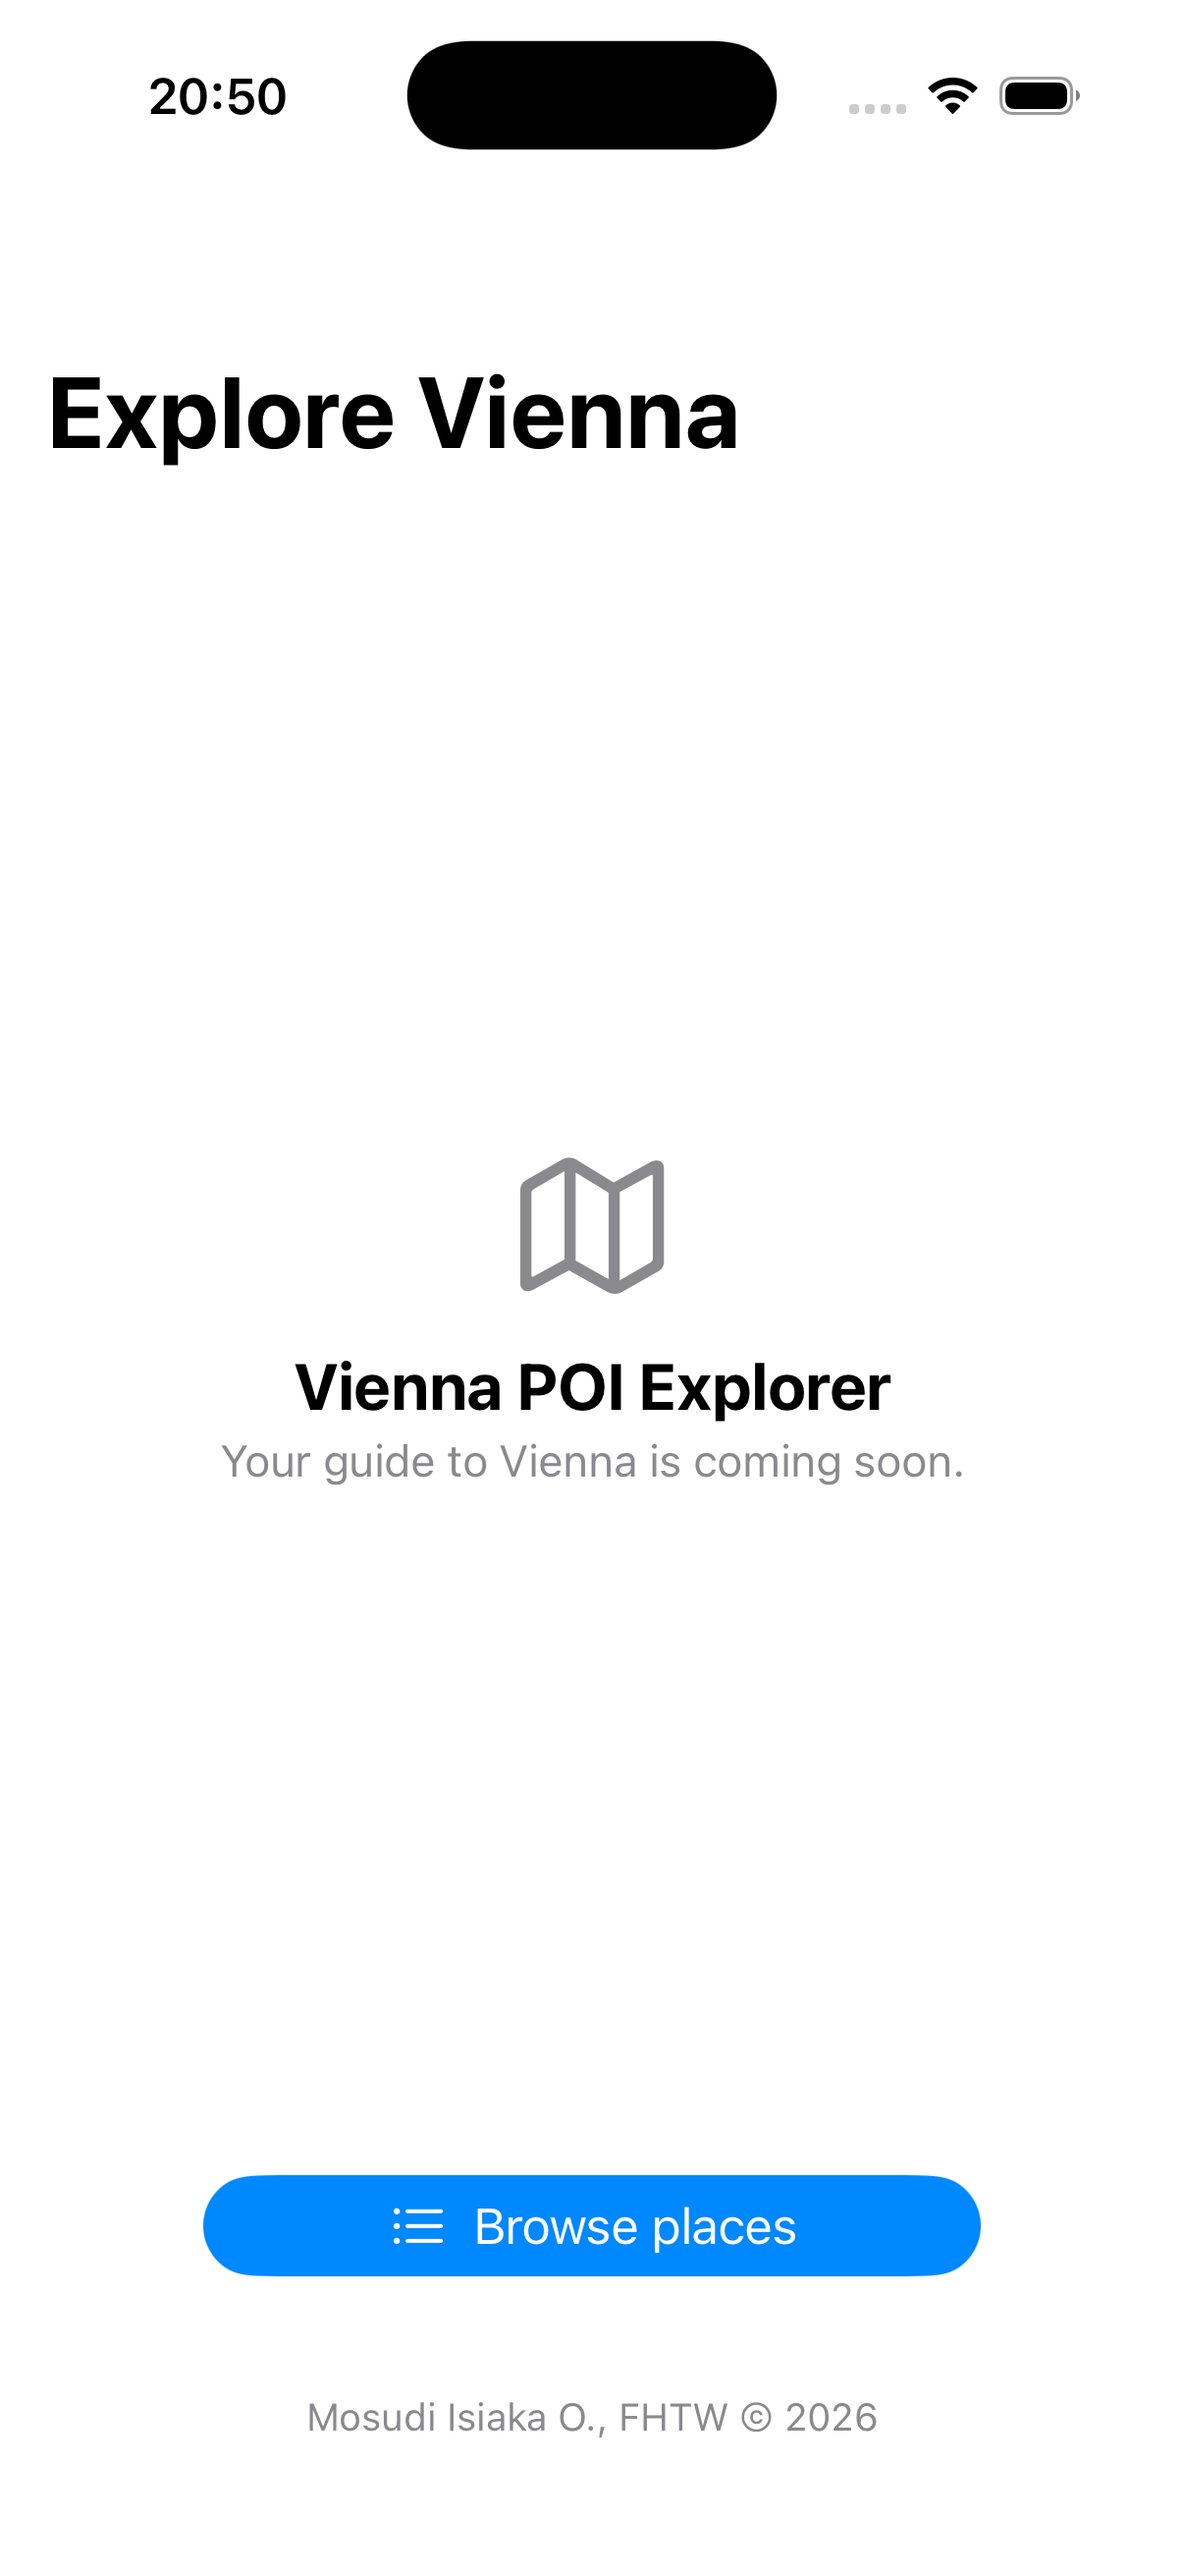
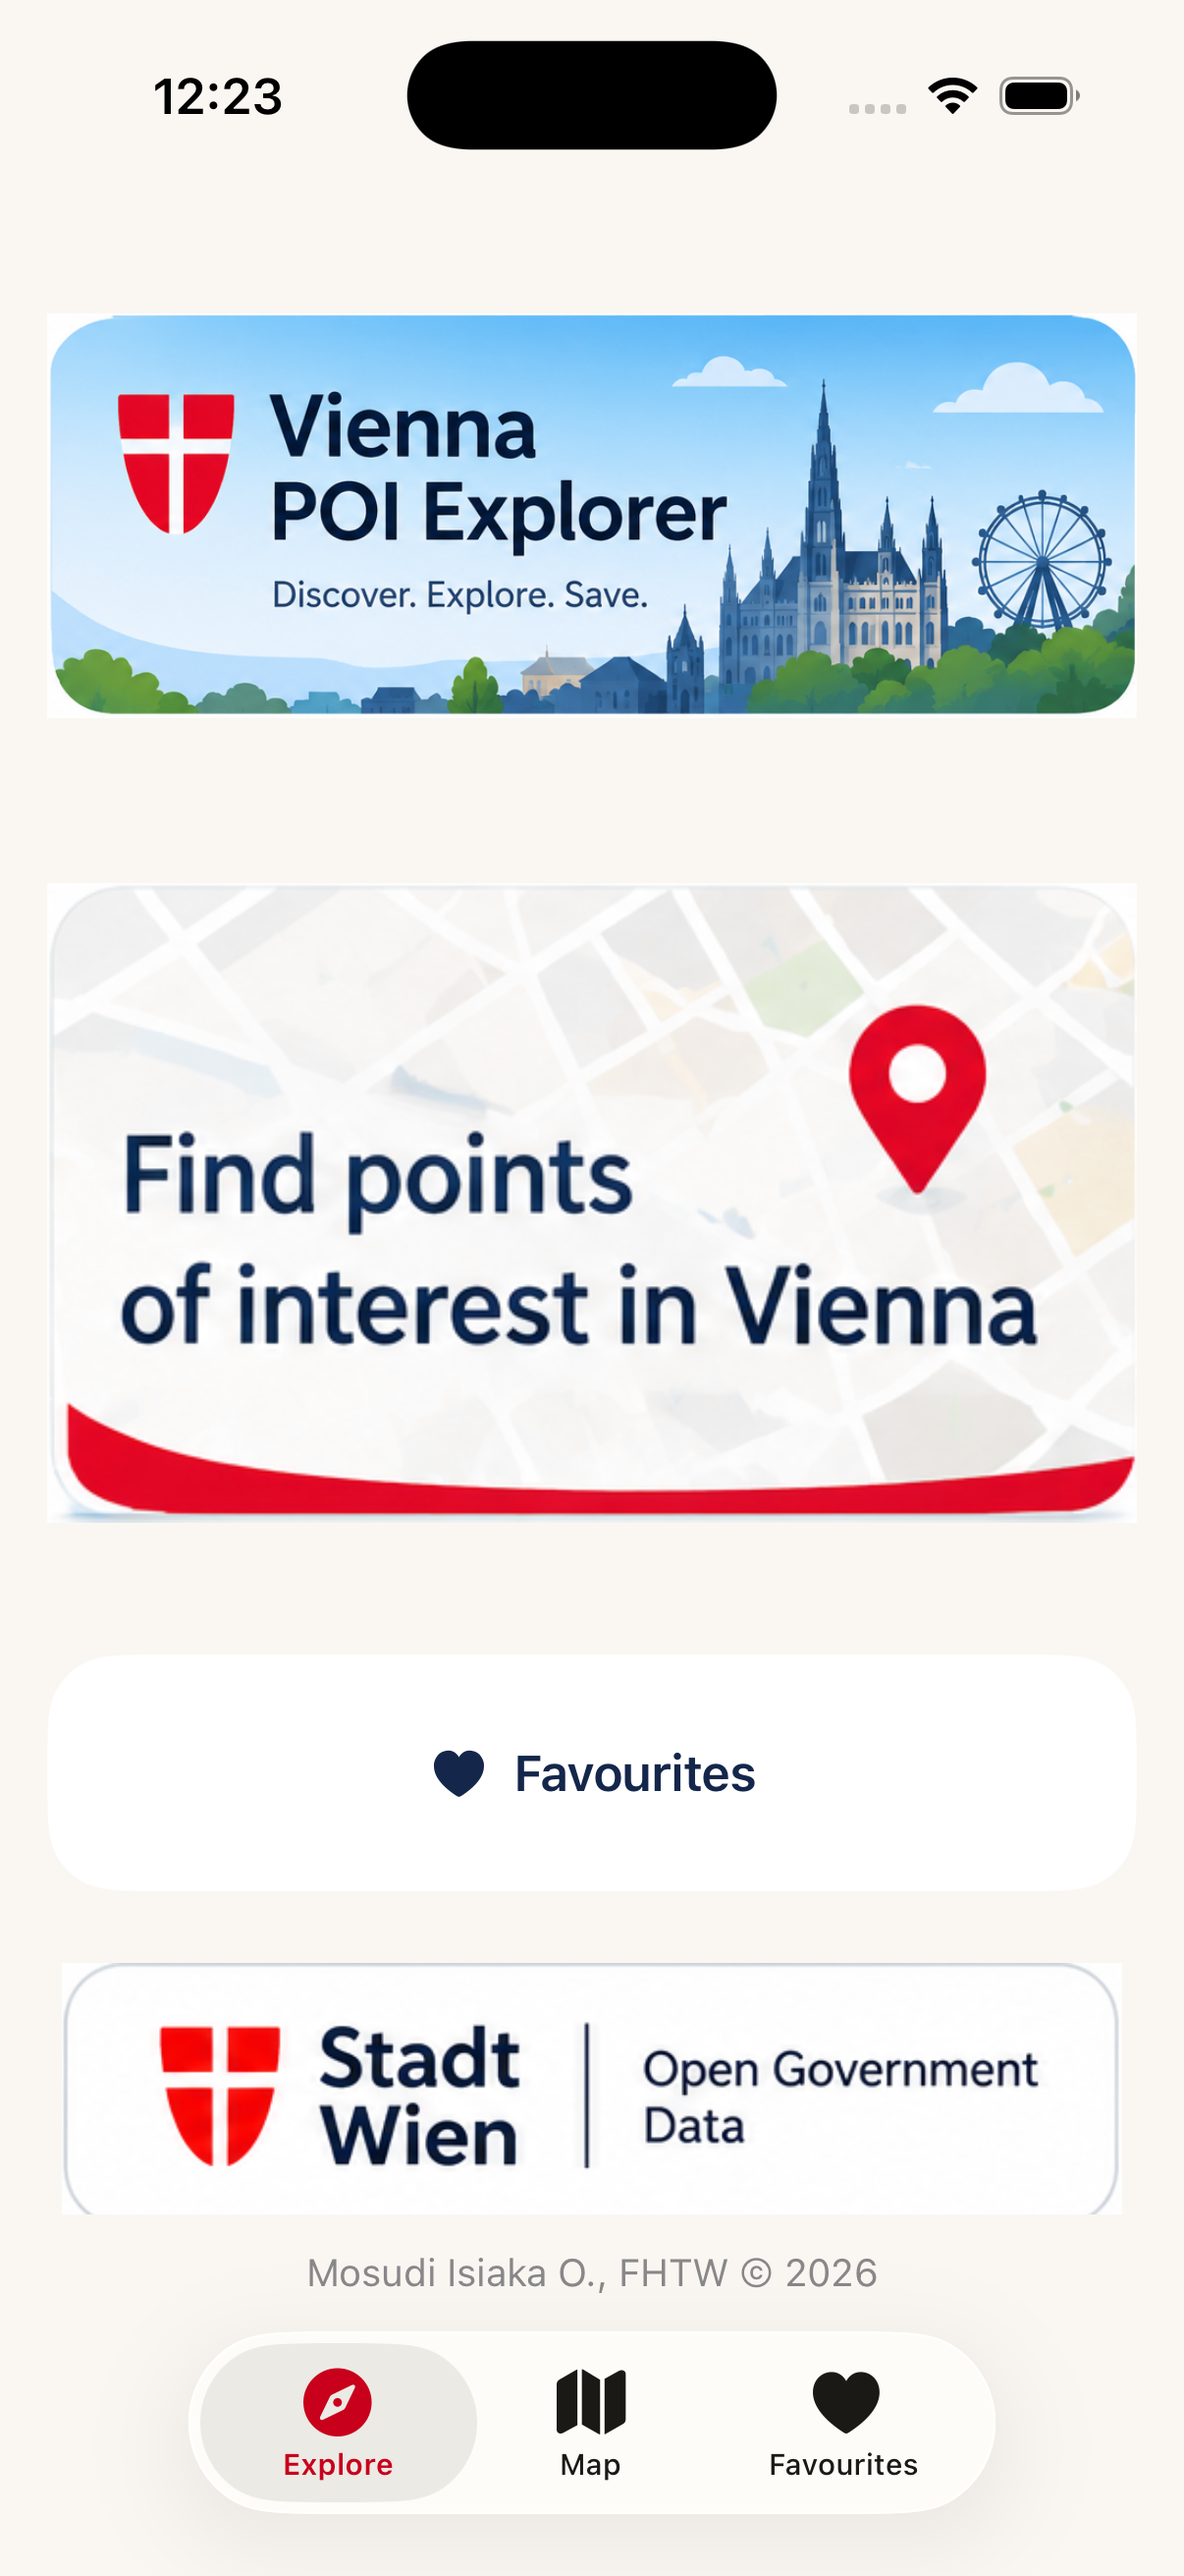
Screenshots

diff --git a/README.md b/README.md
@@ -31,19 +31,43 @@ Features without a stable identifier, a non-empty name, a `Point` geometry, or f
 
 ## Screenshots
 
-### Home screen
+Screenshots are iOS captures. The list, map, and saved-favourite content may
+vary with the dataset and favourites present when the capture was made.
 
-![Home screen in landscape](screenshots/debug-screenshot.png)
+### Explore home
 
-![Home screen in portrait](screenshots/debug-screenshot-landscape.png)
+| Portrait | Landscape |
+|---|---|
+| ![Explore home in portrait](screenshots/debug-screenshot.png) | ![Explore home in landscape](screenshots/debug-screenshot_landscape.png) |
 
-### POI map
+### Places catalogue
 
-![Searchable list of POIs](screenshots/debug-screenshot-landscape_poi.png)
+| Places list | Landscape list and map |
+|---|---|
+| ![Places catalogue in portrait](screenshots/debug-screenshot_places.png) | ![Places catalogue beside the map in landscape](screenshots/debug-screenshot_places_landscape.png) |
 
-![POI map and selected place in landscape](screenshots/debug-screenshot-map-landscape.png)
+### Search results
 
-![POI map and selected place in portrait](screenshots/debug-screenshot-map.png)
+| Search in portrait | Search beside map in landscape |
+|---|---|
+| ![Places filtered by search in portrait](screenshots/debug-screenshot_search_poi.png) | ![Places filtered by search beside the map in landscape](screenshots/debug-screenshot_search_poi_landscape.png) |
 
+### Selected place on the map
+
+| Portrait | Landscape |
+|---|---|
+| ![Selected POI with map details in portrait](screenshots/debug-screenshot_poi.png) | ![Selected POI with map details in landscape](screenshots/debug-screenshot_poi_landscape.png) |
+
+### Favourites
+
+| Favourites in portrait | Favourites in landscape |
+|---|---|
+| ![Favourites list in portrait](screenshots/debug-screenshot_poi_favourites.png) | ![Favourites list in landscape](screenshots/debug-screenshot_poi_favourites_landscape.png) |
+
+### Delete confirmation
+
+| Portrait | Landscape |
+|---|---|
+| ![Delete Favourite confirmation in portrait](screenshots/debug-screenshot_favourite_delete.png) | ![Delete Favourite confirmation in landscape](screenshots/debug-screenshot_favourite_delete_landscape.png) |
 
  
